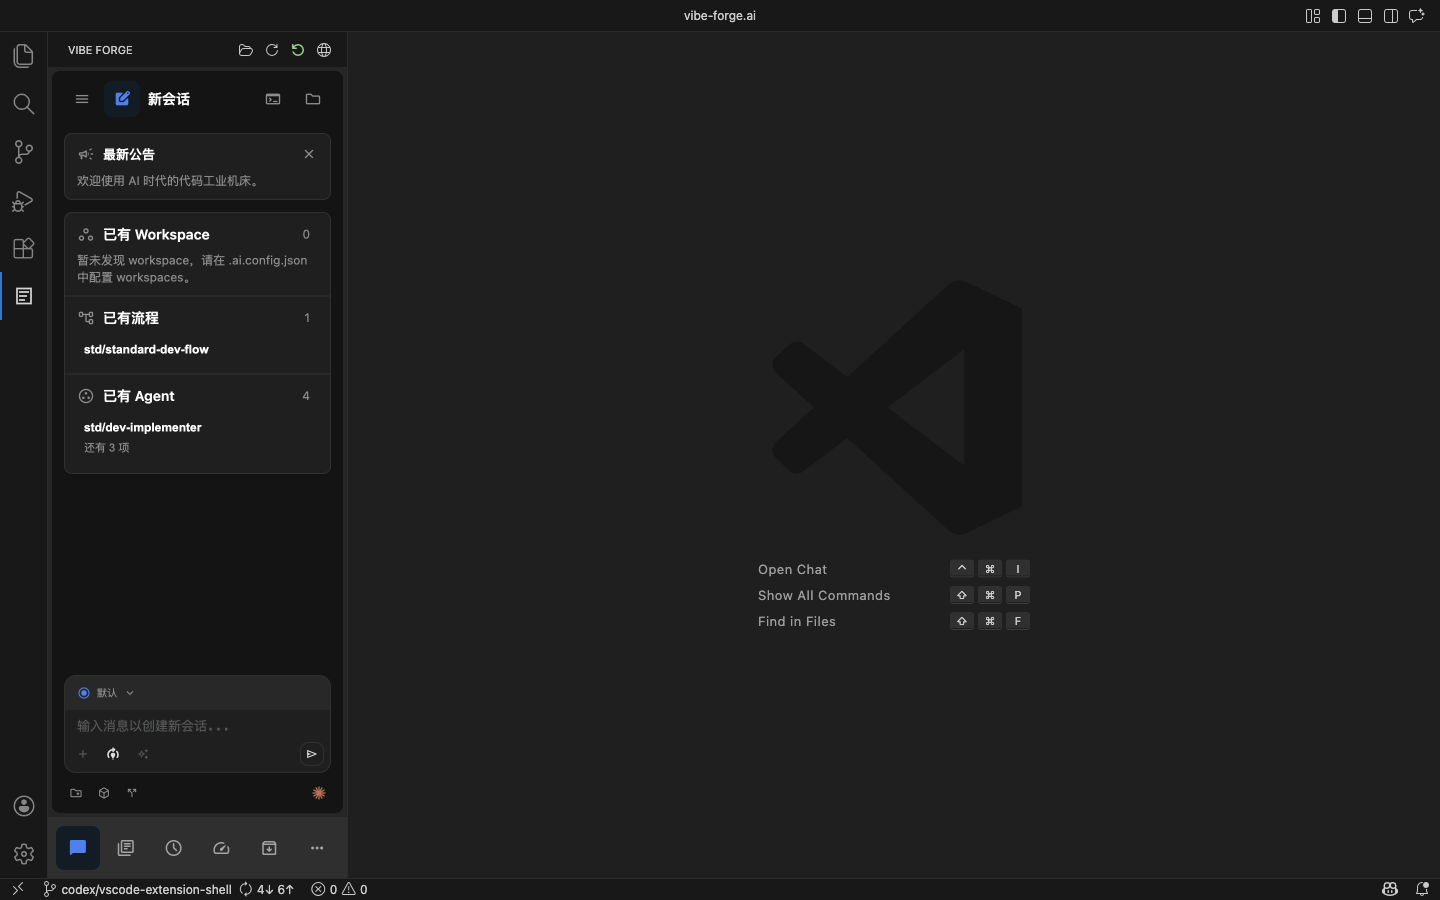
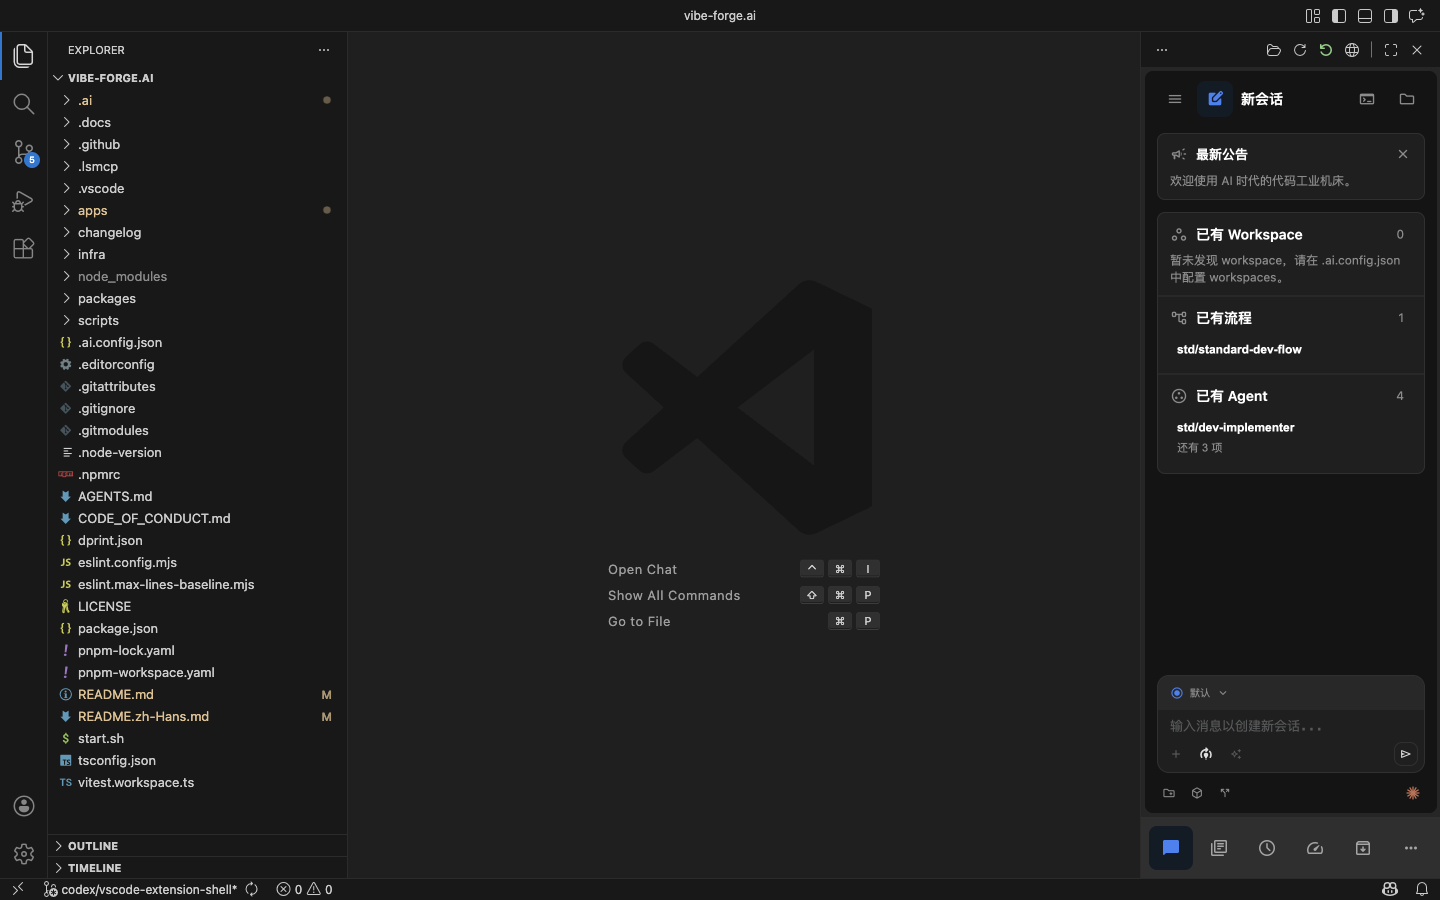
feat: show vscode extension in secondary sidebar

diff --git a/.ai/docs/usage/vscode-extension.md b/.ai/docs/usage/vscode-extension.md
@@ -4,10 +4,10 @@
 
 VS Code 扩展位于 `apps/vscode-extension`，当前是一个薄壳：
 
-- 通过 Activity Bar 的 Vibe Forge 入口在侧边栏打开完整 client。
-- 通过 `Vibe Forge: Open Workspace` 切换当前侧边栏控制的 workspace。
+- 通过右侧 Secondary Side Bar 的 Vibe Forge 入口打开完整 client。
+- 通过 `Vibe Forge: Open Workspace` 切换当前右侧边栏控制的 workspace。
 - 每个 workspace folder 会启动并复用一个本机 Vibe Forge UI server。
-- 多个 workspace folder 可以同时保留各自的 server；侧边栏显示当前选中的 workspace。
+- 多个 workspace folder 可以同时保留各自的 server；右侧边栏显示当前选中的 workspace。
 - Webview 内打开该 server 托管的 `/ui/`，界面仍复用 `@vibe-forge/client`。
 - Server 通过用户环境里的 `vfui-server` / `vibe-forge-ui-server` 启动，业务逻辑不在扩展中重复实现。
 
@@ -15,9 +15,9 @@ VS Code 扩展位于 `apps/vscode-extension`，当前是一个薄壳：
 
 ## 效果预览
 
-<img alt="VS Code 侧边栏中的 Vibe Forge 扩展" src="../../../.docs/zh-hans/vscode-extension-sidebar.png">
+<img alt="VS Code 右侧边栏中的 Vibe Forge 扩展" src="../../../.docs/zh-hans/vscode-extension-sidebar.png">
 
-用户打开 Vibe Forge Activity Bar 后，左侧边栏会直接承载完整 client。当前选中的 workspace 会对应一个本机 UI server，侧边栏顶部命令可用于切换 workspace、刷新视图、重启当前项目 server 或在浏览器中打开同一界面。
+用户在右侧 Secondary Side Bar 选择 Vibe Forge 后，右侧边栏会直接承载完整 client。当前选中的 workspace 会对应一个本机 UI server，侧边栏顶部命令可用于切换 workspace、刷新视图、重启当前项目 server 或在浏览器中打开同一界面。
 
 ## 本地试用
 
@@ -48,11 +48,11 @@ pnpm add -D @vibe-forge/server @vibe-forge/client
 - server 监听 `127.0.0.1` 的随机端口。
 - `webAuth` 默认关闭。
 - 数据库、日志和运行数据写入 VS Code extension 的 global storage，并按 workspace path hash 分目录。
-- 侧边栏 webview 使用 iframe 打开本机 server 的 `/ui/`。
+- 右侧边栏 webview 使用 iframe 打开本机 server 的 `/ui/`。
 
-多根 workspace 下，侧边栏默认优先使用当前编辑器所在的 workspace folder；无法判断时使用第一个 workspace folder。执行 `Vibe Forge: Open Workspace` 可以手动切换。
+多根 workspace 下，右侧边栏默认优先使用当前编辑器所在的 workspace folder；无法判断时使用第一个 workspace folder。执行 `Vibe Forge: Open Workspace` 可以手动切换。
 
-再次执行 `Vibe Forge: Open Workspace` 时，扩展会切换侧边栏当前 workspace；已启动过的其他 workspace server 会继续保留，直到执行停止命令或扩展停用。
+再次执行 `Vibe Forge: Open Workspace` 时，扩展会切换右侧边栏当前 workspace；已启动过的其他 workspace server 会继续保留，直到执行停止命令或扩展停用。
 
 ## 配置项
 
@@ -64,7 +64,7 @@ pnpm add -D @vibe-forge/server @vibe-forge/client
 ## 当前边界
 
 - 当前扩展只提供 webview 壳和 per-project server 生命周期管理。
-- 完整 client 当前直接嵌入 VS Code 侧边栏；宽度由用户拖拽侧边栏控制。
+- 完整 client 当前直接嵌入 VS Code 右侧边栏；宽度由用户拖拽右侧边栏控制。
 - 扩展不会为用户自动安装 `@vibe-forge/server` / `@vibe-forge/client`。
 
 ## 打包与发布

diff --git a/apps/vscode-extension/README.md b/apps/vscode-extension/README.md
@@ -4,7 +4,7 @@ This package is a thin VS Code shell for the existing Vibe Forge Web UI.
 
 ## Preview
 
-![Vibe Forge running in the VS Code sidebar](https://raw.githubusercontent.com/vibe-forge-ai/vibe-forge.ai/master/.docs/zh-hans/vscode-extension-sidebar.png)
+![Vibe Forge running in the VS Code right sidebar](https://raw.githubusercontent.com/vibe-forge-ai/vibe-forge.ai/master/.docs/zh-hans/vscode-extension-sidebar.png)
 
 ## Local Use
 
@@ -14,9 +14,9 @@ From the repository root:
 pnpm -C apps/vscode-extension build
 ```
 
-Run the extension from VS Code and open the Vibe Forge Activity Bar view, or execute `Vibe Forge: Open Workspace`.
+Run the extension from VS Code and open Vibe Forge from the right Secondary Side Bar, or execute `Vibe Forge: Open Workspace`.
 
-The extension starts one local Vibe Forge server per selected workspace folder, disables local web auth, and opens the built client inside a VS Code sidebar webview. Multiple workspace folders can keep separate servers running while the sidebar shows the selected workspace.
+The extension starts one local Vibe Forge server per selected workspace folder, disables local web auth, and opens the built client inside a VS Code right sidebar webview. Multiple workspace folders can keep separate servers running while the right sidebar shows the selected workspace.
 
 The extension does not bundle or install Vibe Forge runtime packages. It searches the selected workspace `node_modules/.bin` and then the system `PATH` for `vfui-server` / `vibe-forge-ui-server`.
 
@@ -33,7 +33,7 @@ pnpm add -D @vibe-forge/server @vibe-forge/client
 
 ## Boundary
 
-The extension does not duplicate client or server business logic. It only owns workspace selection, server process lifecycle, and the sidebar webview wrapper.
+The extension does not duplicate client or server business logic. It only owns workspace selection, server process lifecycle, and the right sidebar webview wrapper.
 
 ## Release
 

diff --git a/README.md b/README.md
@@ -59,7 +59,7 @@ pnpm add -D @vibe-forge/server @vibe-forge/client @vibe-forge/cli @vibe-forge/ad
 
 ### VS Code Extension
 
-- Open Vibe Forge from the Activity Bar while keeping the full client inside the sidebar.
+- Open Vibe Forge from the right Secondary Side Bar while keeping the full client inside the right sidebar.
 - Workspace server discovery, settings, and local source package notes: [VS Code Extension](./.ai/docs/usage/vscode-extension.md)
 
 ### Run the Desktop App from Source
@@ -86,7 +86,7 @@ pnpm vscode:compile
 pnpm vscode:package
 ```
 
-Open the Extension Development Host and use the Vibe Forge Activity Bar entry, or run `Vibe Forge: Open Workspace`.
+Open the Extension Development Host and use the Vibe Forge entry in the right Secondary Side Bar, or run `Vibe Forge: Open Workspace`.
 
 ## Docs
 

diff --git a/README.zh-Hans.md b/README.zh-Hans.md
@@ -58,7 +58,7 @@ pnpm add -D @vibe-forge/server @vibe-forge/client @vibe-forge/cli @vibe-forge/ad
 
 ### 直接用 VS Code 扩展
 
-- 在 Activity Bar 打开 Vibe Forge，完整 client 会嵌入左侧边栏。
+- 在右侧 Secondary Side Bar 打开 Vibe Forge，完整 client 会嵌入 VS Code 右侧边栏。
 - workspace server 发现、配置项和本地源码试用方式见 [VS Code 扩展](./.ai/docs/usage/vscode-extension.md)。
 
 ### 从源码试用桌面端
